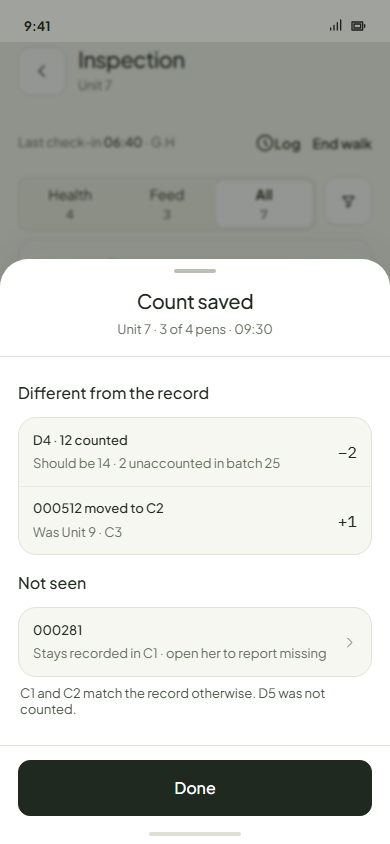
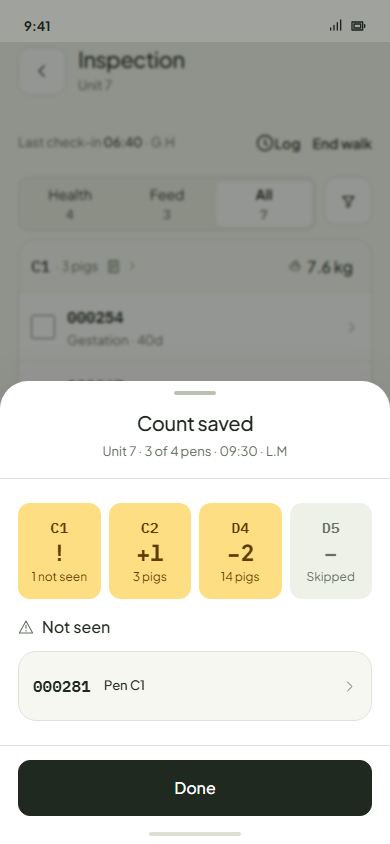
Count round: owner review: no Last counted on Home, recount inside the task, Count saved as pen tiles, a canvas

diff --git a/features/count/canvas.html b/features/count/canvas.html
@@ -1,0 +1,170 @@
+<!doctype html>
+<html lang="en"><head><meta charset="utf-8"><meta name="viewport" content="width=device-width,initial-scale=1">
+<title>Count canvas</title>
+<style>
+:root{--bg:#e9eae4;--ink:#1d221e;--ink2:#4a524c;--muted:#6b736d;--line:#d4d7cf;--card:#fff;--amber:#fede82;--amber-ink:#5c3f00}
+@media (prefers-color-scheme:dark){:root:not([data-theme="light"]){--bg:#121512;--ink:#eef0ea;--ink2:#c9cec6;--muted:#9aa29b;--line:#333a34;--card:#1f2420}}
+:root[data-theme="dark"]{--bg:#121512;--ink:#eef0ea;--ink2:#c9cec6;--muted:#9aa29b;--line:#333a34;--card:#1f2420}
+*{box-sizing:border-box}
+html,body{margin:0;height:100%;overflow:hidden;background:var(--bg);color:var(--ink);font:15px/1.45 "Plus Jakarta Sans",system-ui,sans-serif}
+#view{position:fixed;inset:0;cursor:grab;touch-action:none}
+#view.drag{cursor:grabbing}
+#board{position:absolute;left:0;top:0;transform-origin:0 0;padding:56px;display:flex;gap:72px;align-items:flex-start}
+.col{display:flex;flex-direction:column;gap:20px}
+.col>h2{margin:0;font-size:22px;line-height:1.2}
+.col>p.sub{margin:-12px 0 4px;color:var(--muted);font-size:14px;max-width:420px}
+.row{display:flex;gap:28px;align-items:flex-start}
+figure{margin:0;width:330px}
+.phone{width:330px;height:714px;border-radius:52px;background:#111;padding:11px;box-shadow:0 18px 40px rgba(0,0,0,.18)}
+.phone img{width:100%;height:100%;object-fit:cover;object-position:top;border-radius:42px;display:block;background:#fff}
+figcaption{margin-top:12px;font-size:14px;color:var(--ink2);line-height:1.45}
+figcaption b{color:var(--ink)}
+.tag{display:inline-block;font-size:12px;font-weight:700;letter-spacing:.04em;text-transform:uppercase;padding:2px 8px;border-radius:99px;background:var(--amber);color:var(--amber-ink);margin-bottom:6px}
+.tag.old{background:#d9dcd5;color:#3b423d}
+.note{width:420px;background:var(--card);border:1px solid var(--line);border-radius:18px;padding:20px 22px}
+.note h3{margin:0 0 8px;font-size:17px}
+.note p,.note li{color:var(--ink2);margin:0 0 8px}
+.note ul,.note ol{margin:0;padding-left:20px}
+.note li{margin:6px 0}
+.note b{color:var(--ink)}
+.hint{position:fixed;left:16px;bottom:16px;font-size:13px;color:var(--muted);background:var(--card);border:1px solid var(--line);border-radius:99px;padding:6px 14px}
+.hint button{font:inherit;border:0;background:none;color:var(--ink);font-weight:600;cursor:pointer;padding:0 0 0 8px}
+</style></head>
+<body>
+<div id="view"><div id="board">
+
+<section class="col">
+  <h2>Count · 盘点</h2>
+  <p class="sub">Proposal, 2 Nov. Nothing built. Drag to move, scroll or pinch to zoom.</p>
+  <div class="note">
+    <h3>The idea in four lines</h3>
+    <ul>
+      <li><b>Count belongs to a place.</b> It sits on the pen page, not in a pig's Actions.</li>
+      <li><b>Tagged pigs by scan, untagged by number.</b> A pig read here that the record places elsewhere moves here.</li>
+      <li><b>Nothing disappears because it wasn't read.</b> A pig not seen stays where she is recorded.</li>
+      <li><b>A difference in untagged pigs is unaccounted on the batch.</b> No reason is asked, and births and deaths are never rewritten.</li>
+    </ul>
+  </div>
+  <div class="note">
+    <h3>Changed after your review</h3>
+    <ul>
+      <li><b>No "Last counted" on Home.</b> A reminder of the last count is not work, so it is gone.</li>
+      <li><b>A recount is asked for inside the task that needs it.</b> In the old app it lived inside the task too (see the next column). Count is never a standing reminder.</li>
+      <li><b>Count saved is a glance:</b> one tile per pen. ✓ means it matches, amber means look at it, and grey means it wasn't counted. Below the tiles is only the pig not seen.</li>
+    </ul>
+  </div>
+</section>
+
+<section class="col">
+  <h2>How the old app did it</h2>
+  <p class="sub">Recount lived inside the task, not on Home.</p>
+  <div class="row">
+    <figure><div class="phone"><img src="old-system/task-quantity-anomaly-1567-20878.png" alt=""></div>
+      <figcaption><span class="tag old">Old · piglet task</span><br><b>更多操作 › 数量异常</b> (count anomaly). Inside the task's More actions, beside Foster and Report death. The worker opens it when the number looks wrong.</figcaption></figure>
+    <figure><div class="phone"><img src="old-system/task-piglet-count-confirm-under-971-15991.png" alt=""></div>
+      <figcaption><span class="tag old">Old · piglet task</span><br><b>仔猪数量确认.</b> When the piglets entered (18) differ from the record (20): "will remove 2 piglets automatically". It asks for a reason and a "confirm, continue" checkbox before Submit.</figcaption></figure>
+    <figure><div class="phone"><img src="old-system/insp-calibration-step2-blocked-1797-1721.png" alt=""></div>
+      <figcaption><span class="tag old">Old · inspection</span><br><b>猪只数量校准.</b> The pen recount, behind a hidden pencil icon. A two-step wizard where every untagged pig must be split into batch rows before Submit unlocks.</figcaption></figure>
+  </div>
+  <div class="note">
+    <h3>So a "recount needed" is a task's own number disagreeing</h3>
+    <p>The old app had no reminder. It checked the task's number against the record (piglets processed against piglets alive). On the web, the transfer task 转舍 tracked <b>已转出 / 已转入</b> (sent out / received) per batch. The receiving step on the phone was never drawn.</p>
+    <p>Proposed: when receiving pigs in Transfer (not designed yet) finds 28 where 30 were sent, the task itself asks for a count of that pen. The same is true of any task whose number disagrees. Home stays quiet.</p>
+  </div>
+</section>
+
+<section class="col">
+  <h2>Start a count</h2>
+  <p class="sub">From the pen, any time. From a task, when its number is off.</p>
+  <div class="row">
+    <figure><div class="phone"><img src="mock/mock-1-pen-entry.png" alt=""></div>
+      <figcaption><span class="tag">New</span><br><b>Pen page.</b> Count joins Note, Feed, Observe, Fault and Tick all (3 + 3). Nothing about counting shows anywhere else until it is needed.</figcaption></figure>
+  </div>
+</section>
+
+<section class="col">
+  <h2>Count one pen</h2>
+  <p class="sub">Pen D4: 2 sows with ear tags and 14 pigs without.</p>
+  <div class="row">
+    <figure><div class="phone"><img src="mock/mock-3-count-pen.png" alt=""></div>
+      <figcaption><span class="tag">New</span><br><b>Fewer.</b> The stepper starts at what should be there (14). The worker sets 12: 2 unaccounted in batch 25. The two tagged pigs tick as they are read. <i>Since the last count</i> (below) explains the 14.</figcaption></figure>
+    <figure><div class="phone"><img src="mock/mock-3b-count-pen-match.png" alt=""></div>
+      <figcaption><span class="tag">New</span><br><b>Matches.</b> Saving still writes the count, so the next one starts from it.</figcaption></figure>
+  </div>
+</section>
+
+<section class="col">
+  <h2>Count a room by scan</h2>
+  <p class="sub">The reader is always listening. Pens in walking order. Pens you skip stay as they are.</p>
+  <div class="row">
+    <figure><div class="phone"><img src="mock/mock-4-count-room.png" alt=""></div>
+      <figcaption><span class="tag">New</span><br><b>Unit 7.</b> Each read ticks the pig where she is; the card says <i>2 of 3</i>. The footer keeps the tally.</figcaption></figure>
+    <figure><div class="phone"><img src="mock/mock-4c-count-room-scrolled.png" alt=""></div>
+      <figcaption><span class="tag">New</span><br><b>A pig from elsewhere.</b> 000512, recorded in Unit 9 · C3, is read among C2's sows and <i>moves here</i>. D4's untagged group took 12 in its field.</figcaption></figure>
+    <figure><div class="phone"><img src="mock/mock-4b-count-unknown-tag.png" alt=""></div>
+      <figcaption><span class="tag">New</span><br><b>An unknown tag.</b> The shared scan toast. The tag is left out and the count goes on.</figcaption></figure>
+  </div>
+</section>
+
+<section class="col">
+  <h2>Count saved</h2>
+  <p class="sub">Redrawn: a glance, not a read.</p>
+  <div class="row">
+    <figure><div class="phone"><img src="mock/mock-5-result.png" alt=""></div>
+      <figcaption><span class="tag">New</span><br><b>One tile per pen,</b> the same pens as the room count. A pen that matches gets a ✓ (none does here). Amber is different: <i>+1</i> a pig moved in, <i>−2</i> unaccounted, <i>!</i> a tagged pig not seen. Grey was not counted. The only row is the pig not seen; opening her is the way to report her missing.</figcaption></figure>
+    <figure><div class="phone"><img src="mock/mock-6-log.png" alt=""></div>
+      <figcaption><span class="tag">New</span><br><b>The pen log.</b> <i>Counted 14 · 2 unaccounted</i>. The move and the death since then are their own lines. History is never rewritten.</figcaption></figure>
+  </div>
+</section>
+
+<section class="col">
+  <h2>Untagged pigs carry their conditions</h2>
+  <p class="sub">For any action on some of a group: Transfer, Report death, selling.</p>
+  <div class="row">
+    <figure><div class="phone"><img src="mock/mock-7-noid-conditions.png" alt=""></div>
+      <figcaption><span class="tag">New</span><br><b>Pick 5 of 14, of them 2 with Coughing.</b> D4 keeps <i>Coughing · 1</i> and the new pen gets <i>Coughing · 2</i>. Nothing is copied. Taking the whole group takes every condition, with no question.</figcaption></figure>
+  </div>
+</section>
+
+<section class="col">
+  <h2>Your questions</h2>
+  <p class="sub">Each has my recommendation.</p>
+  <div class="note">
+    <ol>
+      <li><b>A whole-room count outside a task:</b> do you still want one, and if so where? <i>Recommend: only from the task that asks for it (receiving pigs). A pen's own count covers everything else.</i></li>
+      <li><b>Tagged pigs not seen</b> stay recorded where they were. Missing is always a person's call. <i>Recommend: yes.</i></li>
+      <li><b>A pig read here moves here</b> when the count is saved. <i>Recommend: yes.</i></li>
+      <li><b>A room count proves the room, not the pen.</b> A pig in the wrong pen inside the room is fixed by counting that pen. <i>Recommend: yes.</i></li>
+      <li><b>One batch per pen for untagged pigs:</b> pigs moved in join the pen's batch. <i>Recommend: yes. It removes the old batch split.</i></li>
+      <li><b>Conditions follow the pick</b> (default 0; the whole group takes all). <i>Recommend: yes.</i></li>
+      <li><b>A body found after a count</b> asks no question. The next count finds one more than expected, so the batch evens out. <i>Recommend: yes (Round 9).</i></li>
+      <li><b>The number starts at the record,</b> not empty. <i>Recommend: yes.</i></li>
+      <li><b>A sow found in another crate</b> brings her litter with her. <i>Recommend: yes.</i></li>
+    </ol>
+  </div>
+</section>
+
+</div></div>
+<div class="hint">Drag to move · scroll to zoom <button id="fit" type="button">Fit</button></div>
+<script>
+(() => {
+  const view = document.getElementById('view'), board = document.getElementById('board');
+  let s = 1, x = 0, y = 0;
+  const apply = () => { board.style.transform = `translate(${x}px,${y}px) scale(${s})`; };
+  const fit = () => { s = Math.min(1, (innerHeight - 40) / board.scrollHeight); x = 0; y = 0; apply(); };
+  const zoomAt = (cx, cy, f) => { const ns = Math.min(2.5, Math.max(0.12, s * f)); x = cx - (cx - x) * ns / s; y = cy - (cy - y) * ns / s; s = ns; apply(); };
+  view.addEventListener('wheel', (e) => { e.preventDefault(); if (e.ctrlKey || e.metaKey || Math.abs(e.deltaY) > Math.abs(e.deltaX) && !e.shiftKey) zoomAt(e.clientX, e.clientY, Math.exp(-e.deltaY * 0.0015)); else { x -= e.deltaX; y -= e.deltaY; apply(); } }, { passive: false });
+  const pts = new Map(); let last = null, pinch = null;
+  view.addEventListener('pointerdown', (e) => { view.setPointerCapture(e.pointerId); pts.set(e.pointerId, [e.clientX, e.clientY]); view.classList.add('drag'); last = [e.clientX, e.clientY]; if (pts.size === 2) { const [a, b] = [...pts.values()]; pinch = Math.hypot(a[0] - b[0], a[1] - b[1]); } });
+  view.addEventListener('pointermove', (e) => {
+    if (!pts.has(e.pointerId)) return; pts.set(e.pointerId, [e.clientX, e.clientY]);
+    if (pts.size === 2 && pinch) { const [a, b] = [...pts.values()], d = Math.hypot(a[0] - b[0], a[1] - b[1]); zoomAt((a[0] + b[0]) / 2, (a[1] + b[1]) / 2, d / pinch); pinch = d; return; }
+    x += e.clientX - last[0]; y += e.clientY - last[1]; last = [e.clientX, e.clientY]; apply();
+  });
+  const up = (e) => { pts.delete(e.pointerId); pinch = null; if (!pts.size) view.classList.remove('drag'); else last = [...pts.values()][0]; };
+  view.addEventListener('pointerup', up); view.addEventListener('pointercancel', up);
+  document.getElementById('fit').addEventListener('click', fit);
+  addEventListener('load', fit); fit();
+})();
+</script>
+</body></html>

diff --git a/features/count/summary.html b/features/count/summary.html
@@ -28,15 +28,15 @@ strong{color:var(--ink)}
 <body><main>
 <p class="eyebrow">Count · 盘点 · product round · 2 Nov · proposal, nothing built</p>
 <h1>Count is a place's action. One page for every pen and room.</h1>
-<p class="lead">Count sits on the pen page and on the unit's card, not in a pig's Actions: you count a place. It is the Inspection list in counting mode. The reader listens and every tag read ticks that pig. A pig recorded somewhere else is ticked here and <strong>moves here</strong> when you save. Pigs without ear tags get the number you counted. <strong>Save count</strong> records what you saw, what the record expected, who and when. Tagged pigs that weren't read <strong>stay where they are recorded</strong>, and the receipt lists them. A difference in untagged pigs is saved as <strong>unaccounted</strong> on their batch. It is never a pen status, a birth or a death, and no reason is asked. The 3 pigs you just moved in are not a count: <strong>Transfer records the arrivals</strong>, so nobody rescans 30 pigs for 3.</p>
+<p class="lead">Count sits on the pen page, not in a pig's Actions: you count a place. A room recount is asked for inside the task that needs it. It is the Inspection list in counting mode. The reader listens and every tag read ticks that pig. A pig recorded somewhere else is ticked here and <strong>moves here</strong> when you save. Pigs without ear tags get the number you counted. <strong>Save count</strong> records what you saw, what the record expected, who and when. Tagged pigs that weren't read <strong>stay where they are recorded</strong>, and the receipt lists them. A difference in untagged pigs is saved as <strong>unaccounted</strong> on their batch. It is never a pen status, a birth or a death, and no reason is asked. The 3 pigs you just moved in are not a count: <strong>Transfer records the arrivals</strong>, so nobody rescans 30 pigs for 3.</p>
 
 <h2>The recommended flow, at 390 in the real prototype parts</h2>
 <div class="shots">
 <figure><img src="mock/mock-1-pen-entry.png" alt="Pen page with a Count tile"><figcaption><strong>One pen.</strong> Count joins the pen's tiles (3 + 3).</figcaption></figure>
-<figure><img src="mock/mock-2-unit-entry.png" alt="Unit card with Count pigs"><figcaption><strong>A room.</strong> <em>Count pigs · Last counted Oct 21</em> on the unit's card.</figcaption></figure>
+<figure><img src="old-system/task-piglet-count-confirm-under-971-15991.png" alt="Old app count check inside the task"><figcaption><strong>A room recount</strong> is asked for inside the task whose number disagrees, as in the old app. Home never reminds.</figcaption></figure>
 <figure><img src="mock/mock-3-count-pen.png" alt="Count one pen by number"><figcaption><strong>Count by number.</strong> Starts at 14, counted 12: <em>2 unaccounted in batch 25.</em> The tagged two tick as they are read.</figcaption></figure>
 <figure><img src="mock/mock-4c-count-room-scrolled.png" alt="Count a room by scan"><figcaption><strong>Count by scan, a room.</strong> 000512 from Unit 9 <em>moves here</em>. D4's untagged group took 12. D5 is skipped.</figcaption></figure>
-<figure><img src="mock/mock-5-result.png" alt="Count saved receipt"><figcaption><strong>Saved.</strong> Only what differs, plus <em>Not seen · 000281</em>. Opening her is the way to report her missing.</figcaption></figure>
+<figure><img src="mock/mock-5-result.png" alt="Count saved receipt"><figcaption><strong>Saved, at a glance.</strong> One tile per pen: ✓ matches, amber differs, grey skipped. Below, only the pig not seen.</figcaption></figure>
 <figure><img src="mock/mock-6-log.png" alt="Pen log with count lines"><figcaption><strong>Log.</strong> <em>Counted 14 · 2 unaccounted / Should have been 16.</em> History is never rewritten.</figcaption></figure>
 <figure><img src="mock/mock-7-noid-conditions.png" alt="Conditions follow the pick"><figcaption><strong>Conditions on untagged pigs follow the pick.</strong> 5 of 14, of them 2 with Coughing.</figcaption></figure>
 <figure><img src="mock/mock-4b-count-unknown-tag.png" alt="Unknown tag toast"><figcaption><strong>An unknown tag.</strong> The shared toast. It is left out and the count goes on.</figcaption></figure>
@@ -51,7 +51,7 @@ strong{color:var(--ink)}
 <h2>Questions only you can answer</h2>
 <div class="card"><ol class="q">
 <li><strong>Name it Count (盘点)?</strong><small>Recommend: yes.</small></li>
-<li><strong>On the pen page and the unit card, not in a pig's Actions?</strong><small>Recommend: yes. A count is about a place. (The Edit record round had put it in the sow's Actions.)</small></li>
+<li><strong>On the pen page; a whole room only from the task that asks for a recount?</strong><small>Recommend: yes. A count is about a place. (The Edit record round had put it in the sow's Actions.)</small></li>
 <li><strong>Tagged pigs not seen stay recorded and are listed on the receipt. Should a count report them missing on its own?</strong><small>Recommend: no. Missing is always a person's call.</small></li>
 <li><strong>A pig read here that the record places elsewhere moves here on Save?</strong><small>Recommend: yes. Her row and the receipt both show it.</small></li>
 <li><strong>A room count proves the room, not the pen?</strong><small>Recommend: yes. A pig in the wrong pen inside the room is fixed by counting that pen. A pig from another room joins the pen scanned just before her, and you can change it.</small></li>
@@ -61,7 +61,7 @@ strong{color:var(--ink)}
 <li><strong>Does the number start at the record, not empty?</strong><small>Recommend: start at the record. A count that matches is the common case.</small></li>
 <li><strong>Unknown tags are left out. Offer "give this tag to one of the untagged pigs" later?</strong><small>Recommend: later, with Assign identity.</small></li>
 <li><strong>A sow found in another farrowing crate: does her litter move with her?</strong><small>Recommend: yes. The crate's count checks the number.</small></li>
-<li><strong>No scheduled count task in v1, only <em>Last counted</em> on the unit card?</strong><small>Recommend: yes.</small></li>
+<li><strong>No scheduled counts and no reminders in v1?</strong><small>Recommend: yes.</small></li>
 </ol></div>
 <p style="margin-top:16px">Full proposal: <code>features/count/PRD.md</code>. It has 26 scenarios, the model, three options and the rulings it changes. Old-system screens are in <code>features/count/old-system/</code> and the blind pass is in <code>features/count/codex-blind-pass.md</code>.</p>
 </main></body></html>

diff --git a/features/count/PRD.md b/features/count/PRD.md
@@ -6,7 +6,7 @@ The owner's words (2026-11-02): *"count is not only for piglets but we do counts
 
 ## Recommendation in one paragraph
 
-**Count is a place's action, one page for every place.** It sits on the pen page (beside Note, Feed, Observe, Fault, Tick all) and on the unit's card on Home (`Count pigs · Last counted Oct 21`), never in a pig's Actions: you count a place, not a pig. The page is the Inspection list you already know, in counting mode: the reader is always listening; every ear tag read ticks that pig; a pig the record places somewhere else is ticked here with *Moves here*; each group of pigs without ear tags takes the number counted in its 44px field (a one-pen count shows a big stepper). **Save count** writes one observation: what was seen, what the record expected, who and when. Scanned pigs from elsewhere move here. Pigs with ear tags that were not seen **stay where they are recorded**: the receipt lists them, and opening one is the way to Report missing. A difference in pigs without ear tags is saved as **unaccounted** on their batch (Round 9), never as a pen status, never a birth or a death. No reason is asked. The few pigs you just moved in are not a count: **Transfer records the arrivals** (scan them at the new pen, or type how many), so nobody rescans 30 pigs for 3. And conditions on pigs without ear tags **follow the pigs you pick**: picking 5 of 14 asks, for each condition the group has, how many of the 5 have it.
+**Count is a place's action, one page for every place.** It sits on the pen page (beside Note, Feed, Observe, Fault, Tick all), never in a pig's Actions: you count a place, not a pig. Home never reminds anyone to count (owner, 2026-11-02): a recount of a room is asked for **inside the task whose number disagrees**, as in the old app (receiving pigs in Transfer: 28 arrived where 30 were sent). The page is the Inspection list you already know, in counting mode: the reader is always listening; every ear tag read ticks that pig; a pig the record places somewhere else is ticked here with *Moves here*; each group of pigs without ear tags takes the number counted in its 44px field (a one-pen count shows a big stepper). **Save count** writes one observation: what was seen, what the record expected, who and when. Scanned pigs from elsewhere move here. Pigs with ear tags that were not seen **stay where they are recorded**: the receipt lists them, and opening one is the way to Report missing. A difference in pigs without ear tags is saved as **unaccounted** on their batch (Round 9), never as a pen status, never a birth or a death. No reason is asked. The few pigs you just moved in are not a count: **Transfer records the arrivals** (scan them at the new pen, or type how many), so nobody rescans 30 pigs for 3. And conditions on pigs without ear tags **follow the pigs you pick**: picking 5 of 14 asks, for each condition the group has, how many of the 5 have it.
 
 ---
 
@@ -57,7 +57,7 @@ The archived Set count (`inspection.set-count-batches`, [now/](now/inspection.se
 | 14 | **Sows in group housing** | Each sow by tag | Count the pen (scan every sow) or the room. |
 | 15 | **Piglets and growers without ear tags** | A number per pen | The group row's number (room) or the stepper (one pen). |
 | 16 | **A mixed pen** (2 tagged + 14 untagged) | Both | One page: the tagged by scan, the 14 by number. |
-| 17 | **A whole room** | Pen by pen as they walk | Count the unit: pen cards in walking order; pens they skip stay as they are (`3 of 4 pens`). |
+| 17 | **A whole room** | Pen by pen as they walk | Opened from the task that asks for it (Q2). Count the unit: pen cards in walking order; pens they skip stay as they are (`3 of 4 pens`). |
 | 18 | **A room scan finds a pig from another room** | She is in this room | She joins the pen scanned just before her, shown on her row (*Moves to C2 ›*, changeable), and on the receipt. |
 | 19 | **A pig in the wrong pen of the same room** | Only if they count that pen | A room count proves the room, not the pen; a pen count proves the pen (Q5). |
 | 20 | **Death** | A body, often its cause | Report death (its own record). It lowers what the next count expects. |
@@ -131,14 +131,14 @@ The archived Set count (`inspection.set-count-batches`, [now/](now/inspection.se
 
 | | |
 |---|---|
-| ![Pen page with Count](mock/mock-1-pen-entry.png) | ![Unit card with Count pigs](mock/mock-2-unit-entry.png) |
-| **Entry, one pen.** Count joins the pen's tiles (six: 3 + 3, the row grid rule). | **Entry, a room.** *Count pigs · Last counted Oct 21 · G.H* joins the unit's card on Home, between Inspect unit and Environment & devices. |
+| ![Pen page with Count](mock/mock-1-pen-entry.png) | ![Old app: count anomaly inside the task](old-system/task-piglet-count-confirm-under-971-15991.png) |
+| **Entry, one pen.** Count joins the pen's tiles (six: 3 + 3, the row grid rule). | **A recount, in the old app** (TASK `971:15991`, reached from the piglet task's More actions › 数量异常 `1567:20878`): the task's own number (18) against the record (20), inside the task. No reminder anywhere. The proposal keeps that: a room recount opens from the task whose number disagrees. (The Home *Last counted* row of the first draft is dropped, owner 2026-11-02.) |
 | ![Count one pen](mock/mock-3-count-pen.png) | ![Count one pen, matches](mock/mock-3b-count-pen-match.png) |
 | **Count by number, one pen (D4).** The reader listens; the stepper starts at what should be there (14), the worker sets 12: *2 fewer than the record. Saved as 2 unaccounted in batch 25.* The two tagged pigs tick as they are read. *Since the last count* explains the 14. Back · Save count. | **Matches.** *Matches the record.* Saving still writes the count, so the next one starts from it. |
 | ![Count a room](mock/mock-4-count-room.png) | ![Count a room, scrolled](mock/mock-4c-count-room-scrolled.png) |
 | **Count by scan, a room (Unit 7).** Pen cards in walking order, each read ticks the pig where she is; the card says `2 of 3`. Footer: `3 of 4 pens · 1 not seen yet` · Save count. | **The same, scrolled.** 000512, recorded in Unit 9 · C3, was read among C2's sows: *Moves here*, `+1 here` on C2. D4's untagged group took 12 in its field; D5 untouched reads *Not counted*. |
 | ![Unknown tag](mock/mock-4b-count-unknown-tag.png) | ![Count saved](mock/mock-5-result.png) |
-| **An unknown tag.** The shared scan toast; the count goes on. | **Count saved.** Only what differs: *D4 · 12 counted · Should be 14 · 2 unaccounted in batch 25* (−2), *000512 moved to C2 · Was Unit 9 · C3* (+1); *Not seen · 000281 · Stays recorded in C1 · open her to report missing*; one quiet line for the rest. Done. |
+| **An unknown tag.** The shared scan toast; the count goes on. | **Count saved, at a glance** (redrawn after owner review: "I don't even want to read it"). One tile per pen: ✓ matches, amber differs (*+1* a pig moved in, *−2* unaccounted, *!* a tagged pig not seen), grey skipped. Under the tiles only the tagged pig not seen, which opens her (Report missing). Done. |
 | ![Pen log](mock/mock-6-log.png) | ![Conditions follow the pick](mock/mock-7-noid-conditions.png) |
 | **The pen log.** `Counted 14 · 2 unaccounted / Should have been 16 · both tagged pigs seen`; the move and death since are their own lines. | **Conditions follow the pick** (any action on some untagged pigs): *How many in all? 5 of 14* and *With Coughing · of the 3 in D4 · 2*. |
 
@@ -159,7 +159,7 @@ Mock notes: these are drawn by swapping content into the real pages (`mock.mjs`)
 ## 8. Questions only the owner can answer
 
 1. **The name.** *Count* (盘点) for the tile, the page and the log. *Recommend: Count.*
-2. **Where it lives.** The pen page (one pen, crate or group) and the unit's card on Home (a room); not a pig's Actions. *Recommend: yes.*
+2. **Where it lives.** The pen page (one pen, crate or group); a whole room only from the task that asks for a recount (receiving pigs). Do you also want a whole-room count outside tasks, and where? *Recommend: no; the pen's own Count covers the rest.*
 3. **Tagged pigs not seen.** They stay recorded where they were; the receipt lists them and opening one is the way to Report missing. Or should a count report them missing itself? *Recommend: stay recorded; missing is always a person's call.*
 4. **Scan here moves here.** A tagged pig read in a count that the record places elsewhere moves here when the count is saved (shown on her row and the receipt). *Recommend: yes.*
 5. **A room count proves the room, not the pen.** Pigs read in the room tick in the pen the record has them in; a pen in the wrong place inside the room is fixed by counting that pen. A pig from another room joins the pen scanned just before her (changeable). *Recommend: yes; the alternative, one pen at a time, loses the room scan you asked for.*
@@ -169,10 +169,10 @@ Mock notes: these are drawn by swapping content into the real pages (`mock.mjs`)
 9. **The number starts at the record.** The stepper and group fields start at what should be there (fast when it matches; a worker could save without counting). Or start empty? *Recommend: start at the record; the matching count is the common case.*
 10. **Unknown tags.** Left out with the scan toast. Should the receipt offer *Give this tag to one of the 14 pigs without ear tags* (Assign identity)? *Recommend: later, with Assign identity.*
 11. **A sow found in another crate in farrowing.** Does her litter move with her? *Recommend: yes, the litter is hers until weaning; the crate's count checks the number.*
-12. **Scheduled counts.** v1 shows *Last counted* on the unit card and nothing more; no count task, no reminder. *Recommend: yes; a stocktake task on Home later if farms ask.*
+12. **Scheduled counts.** None in v1: no reminder, no *Last counted* (owner, 2026-11-02). A recount is asked for only by a task whose number disagrees. *Recommend: yes.*
 
 ## 9. Next steps after a ruling
 
 1. Transfer's product round, using this page as its arrivals tally (scenarios 1–4).
-2. Build Count on the pen page and the unit card in the prototypes; retire Set count and Reconcile piglet count.
+2. Build Count on the pen page in the prototypes; retire Set count and Reconcile piglet count.
 3. Exits (sold, off farm) as their own record, so *Since the last count* is complete.
